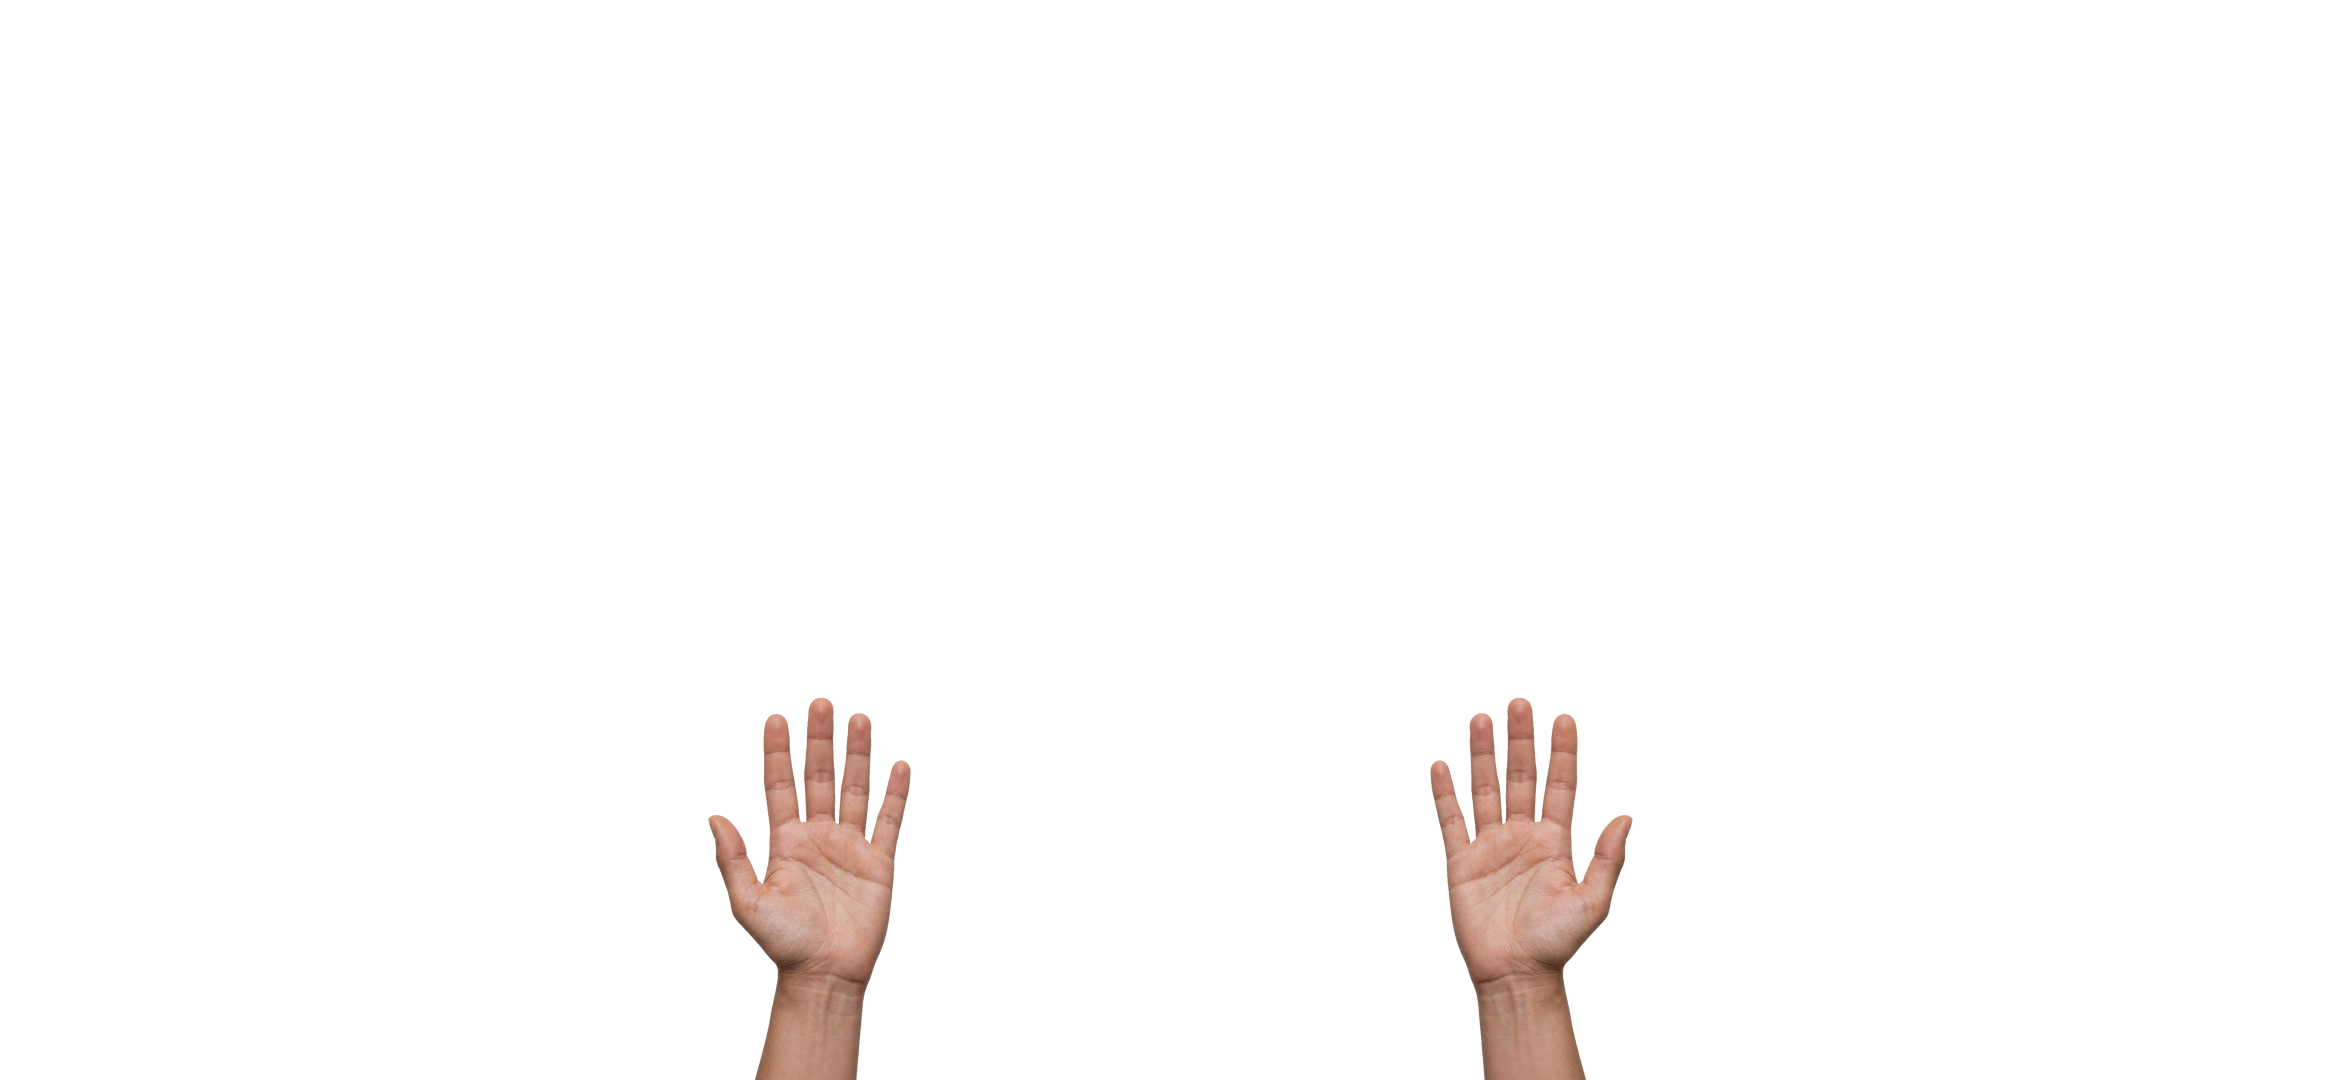
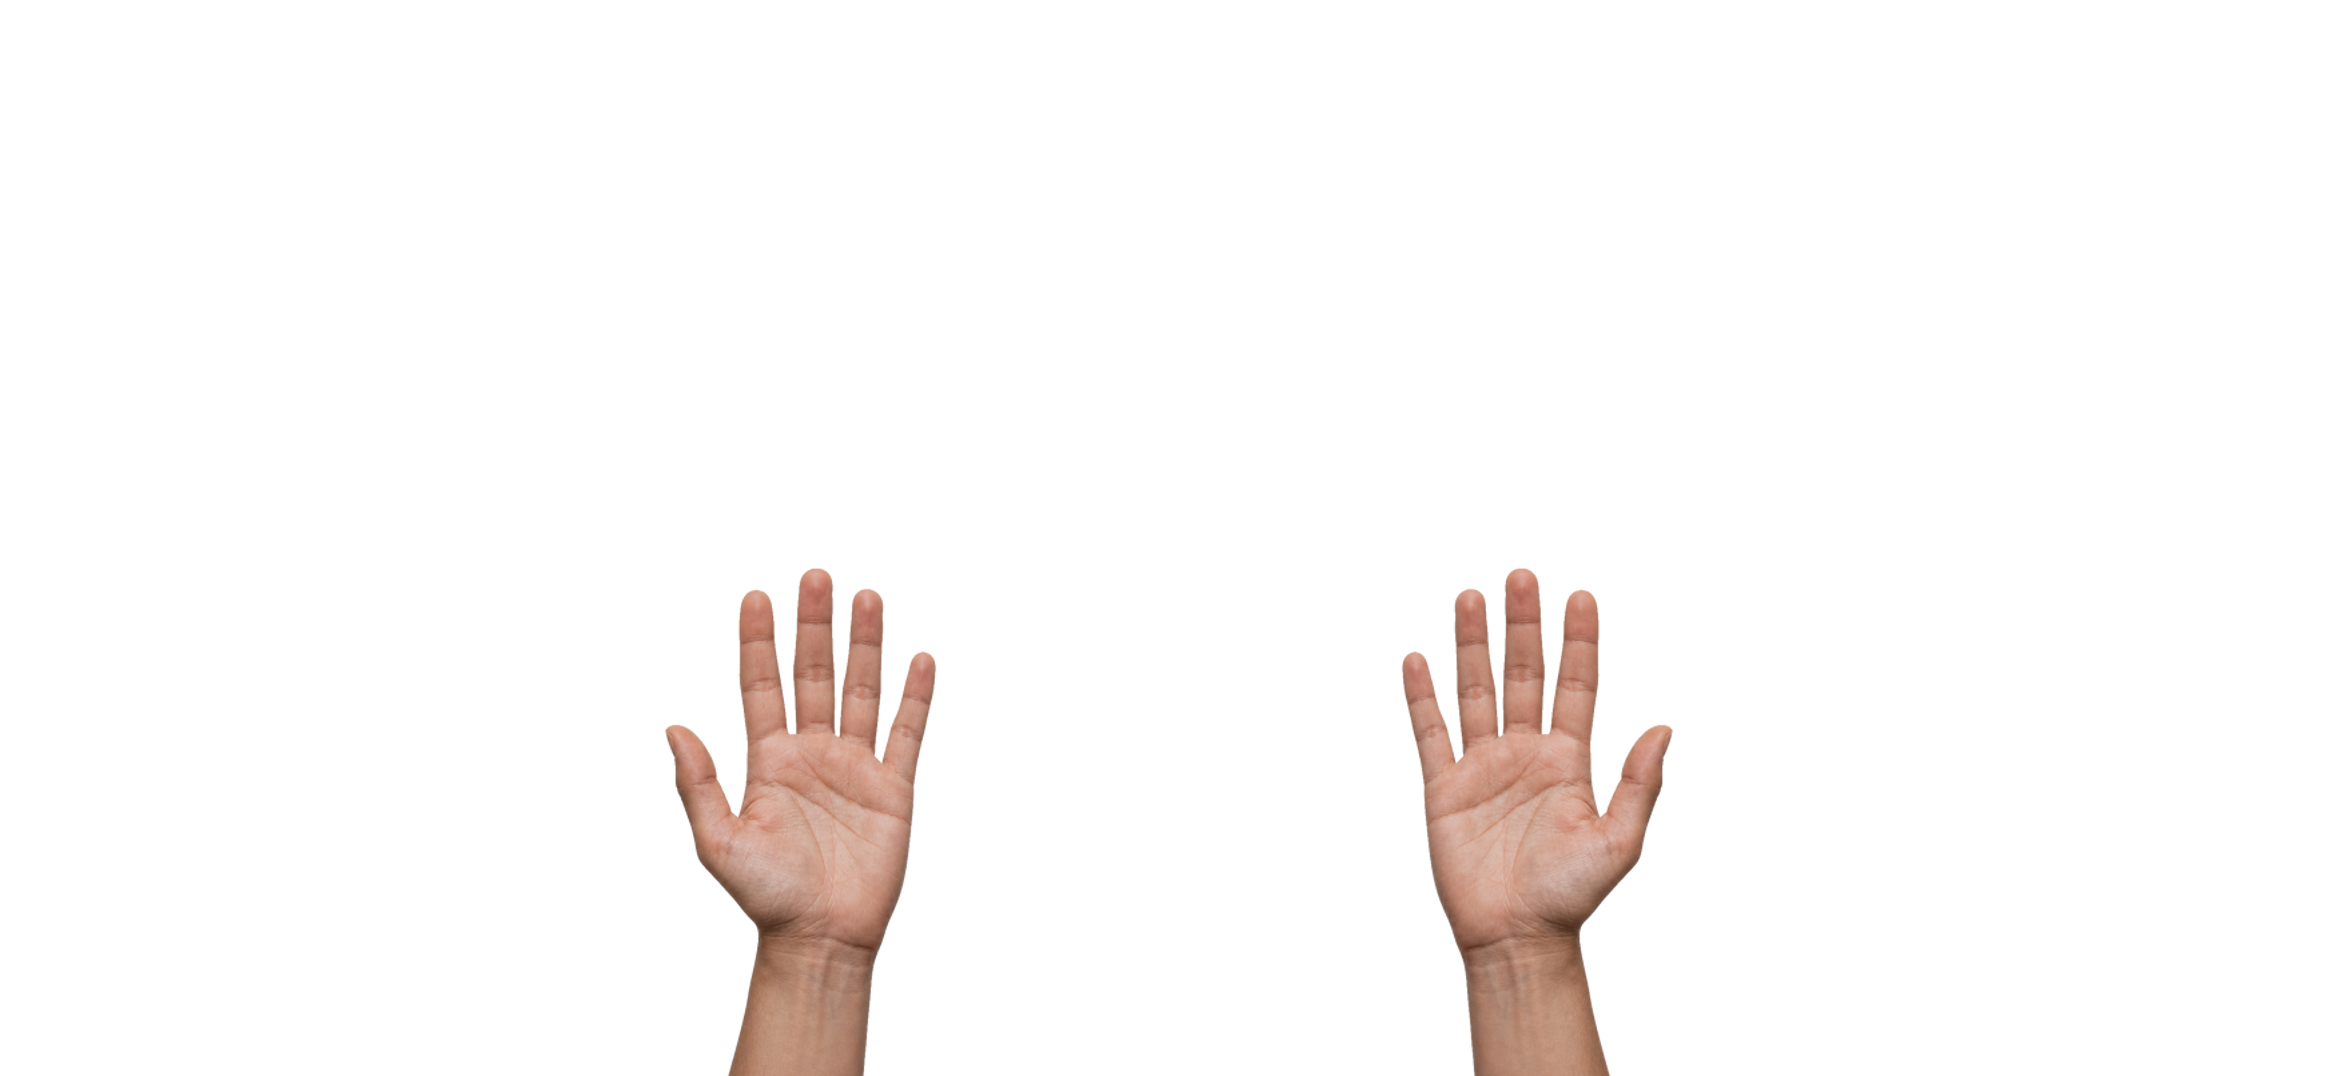
Bouton Deposer : fond plus transparent (alpha 0.40)

Changed region(s): [[0.5932, 0.5214, 0.7181, 1.0], [0.281, 0.5214, 0.4059, 1.0]]

diff --git a/src/screens/game_screen.py b/src/screens/game_screen.py
@@ -357,6 +357,12 @@ class GameScreen(Screen):
 
             db = scale_font(StyledButton(text="Deposer", size_hint=(0.13, 0.07),
                             pos_hint={"center_x": cx, "y": 0.005}), 0.02)
+            # Fond plus transparent (alpha 0.40 au lieu de 0.92) pour ne pas
+            # masquer les mains/decor derriere.
+            db.set_palette(idle=(0.13, 0.24, 0.18, 0.40),
+                           down=(0.22, 0.40, 0.28, 0.55),
+                           off=(0.12, 0.14, 0.12, 0.30),
+                           border=(0.55, 0.85, 0.60, 0.45))
             db.bind(on_release=lambda _w, s=slot: self._drop_hand(s))
             root.add_widget(db)
             self.drop_btns.append(db)

diff --git a/src/widgets/player_hands.py b/src/widgets/player_hands.py
@@ -75,7 +75,7 @@ class PlayerHands(Widget):
     # y des objets tenus (creux de la paume), en fraction de la hauteur du
     # widget depuis le bas. Mesures depuis HandHUD.png : palm center a
     # 21 % du bas de l'image, image affichee sur 21 % de la hauteur ecran.
-    ITEM_FY = 0.185
+    ITEM_FY = 0.225
 
     def __init__(self, **kwargs):
         super().__init__(**kwargs)